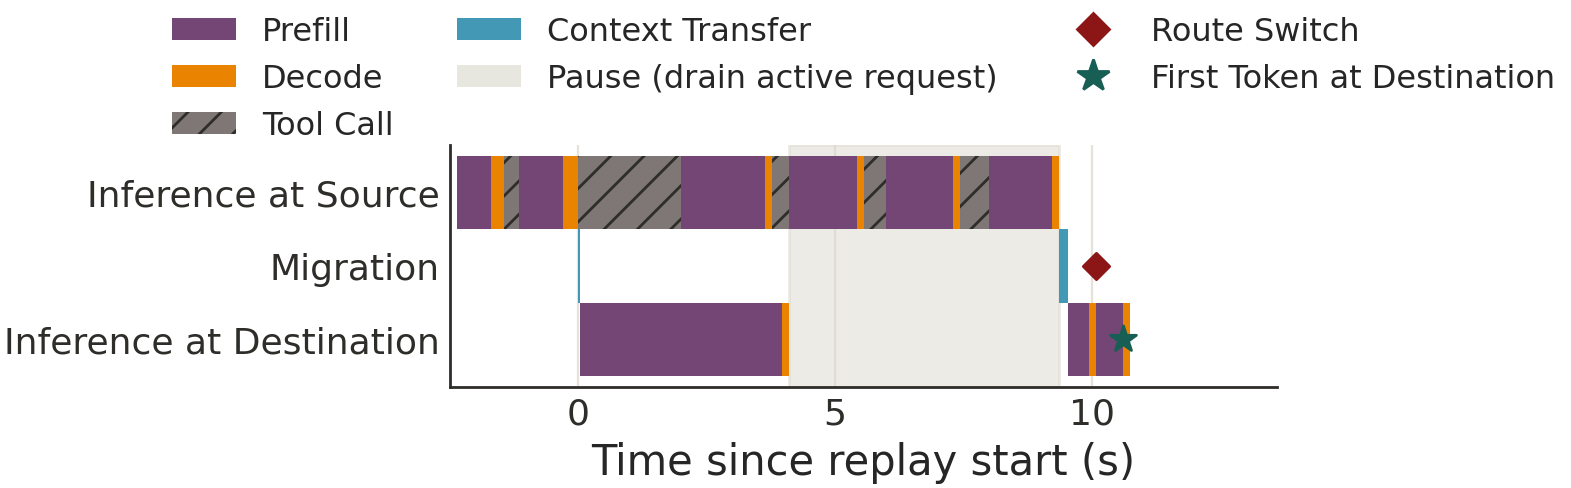
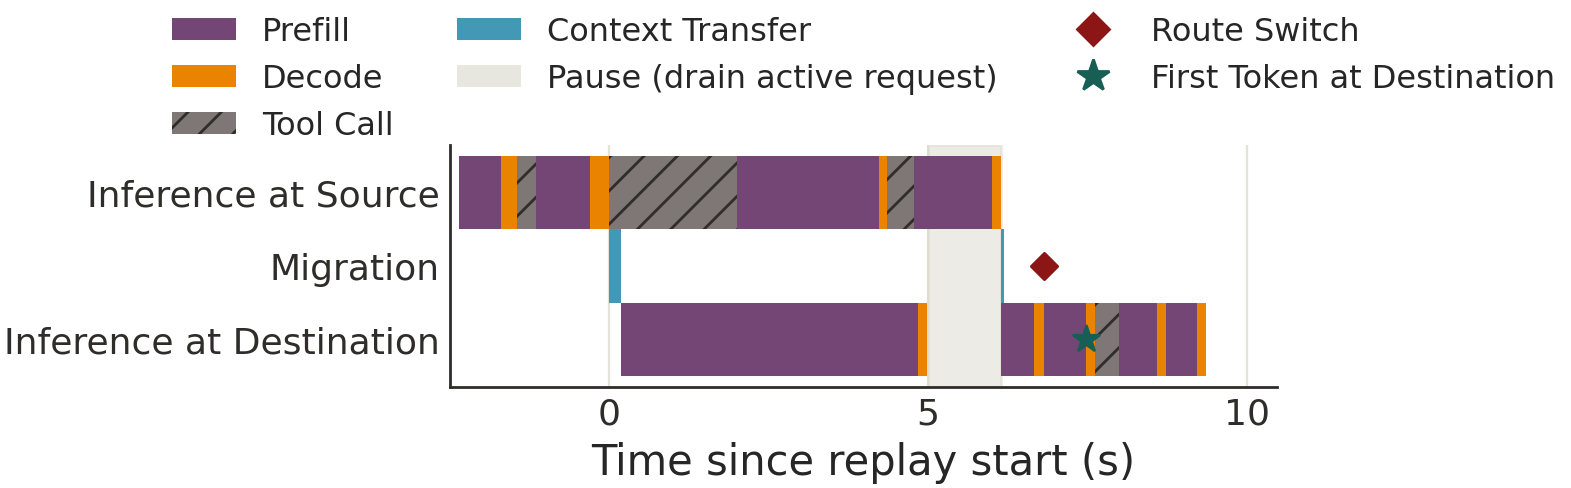
Publish quiescence mechanism validation traces

diff --git a/agent-migrate/queue-haul/tests/test_testbed_kv_timeline.py b/agent-migrate/queue-haul/tests/test_testbed_kv_timeline.py
@@ -44,6 +44,7 @@ def fixture(tmp_path):
         "bandwidth_mbps": 1000, "activity": "staged", "success": "True",
         "initial_start_ns": 1_000_000_000,
         "initial_end_ns": 3_000_000_000,
+        "idle_ns": 3_500_000_000,
         "pause_start_ns": 3_000_000_000,
         "catch_up_start_ns": 4_000_000_000,
         "catch_up_end_ns": 5_000_000_000,
@@ -98,6 +99,18 @@ def test_extract_preserves_pause_and_inference_semantics(tmp_path):
         segment["finish_s"] for segment in segments
         if segment["location"] == "source"
     ) > row["quiesce_s"]
+
+
+def test_extract_accepts_no_catch_up(tmp_path):
+    root = fixture(tmp_path)
+    rows = list(csv.DictReader((root / "migrations.csv").open()))
+    rows[0]["catch_up_start_ns"] = rows[0]["catch_up_end_ns"] = ""
+    _csv(root / "migrations.csv", rows)
+
+    row = extract(root, "measured")[0][0]
+
+    assert row["request_boundary_wait_s"] == .5
+    assert row["catch_up_s"] == 0
 
 
 def test_write_rejects_wrong_concurrency_and_emits_plot(tmp_path):

diff --git a/agent-migrate/queue-haul/plot_testbed_kv_timeline.py b/agent-migrate/queue-haul/plot_testbed_kv_timeline.py
@@ -89,8 +89,9 @@ def extract(root: Path, scenario_id: str) -> tuple[list[dict], list[dict]]:
     for index, row in enumerate(sorted(migrations, key=lambda item: int(item["order"])), 1):
         continuation = continuations[row["session_id"]]
         bulk_start, bulk_finish = seconds(row["initial_start_ns"]), seconds(row["initial_end_ns"])
-        quiesce, catch_start = seconds(row["pause_start_ns"]), seconds(row["catch_up_start_ns"])
-        catch_finish = seconds(row["catch_up_end_ns"])
+        quiesce = seconds(row["pause_start_ns"])
+        catch_start = seconds(row["catch_up_start_ns"] or row["idle_ns"])
+        catch_finish = seconds(row["catch_up_end_ns"] or row["idle_ns"])
         switch_start, commit = seconds(row["switch_start_ns"]), seconds(row["switch_end_ns"])
         continuation_start = seconds(continuation["start_ns"])
         first_token = seconds(min(

diff --git a/agent-migrate/queue-haul/README.md b/agent-migrate/queue-haul/README.md
@@ -147,6 +147,7 @@ Warm prefetch permits concurrent destination L1 fills but requires a full L1
 hit before inference.
 Source-store completion uses unique RESP keys, not LMCache summary token counts.
 Its expected key count comes from the request's retained-cache miss.
+Traces with no catch-up plot a zero-length catch-up at the measured idle boundary.
 Destination inference forbids L2 reads but may recompute an unstorable boundary chunk.
 `plot_fixed_contract_residuals.py` caches the canonical 100K-session,
 120-second fixed-contract requirement sweep and compares mixed greedy,
